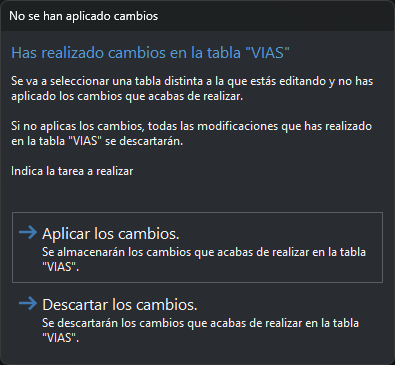
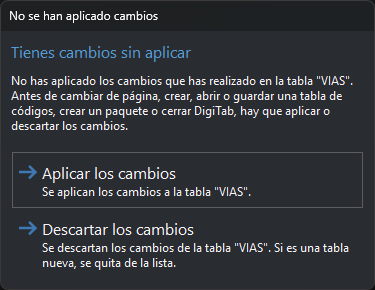
Editor de tablas de codigos: capturas de los avisos de la pestana Base de datos
Capturas nuevas de los cuadros al cambiar de pagina, al seleccionar otra tabla, al pulsar Nueva y de los codigos que enlazan con la tabla.

Changed region(s): [[0.0293, 0.1241, 0.968, 0.5276], [0.0293, 0.5586, 0.968, 0.9621], [0.0, 0.031, 0.44, 0.0931]]

diff --git a/src/digi3d-ai/referencia/editor-de-tablas-de-codigos/pestanas/base-de-datos/README.md b/src/digi3d-ai/referencia/editor-de-tablas-de-codigos/pestanas/base-de-datos/README.md
@@ -1,7 +1,7 @@
 # Base de datos
 <!-- id: base-de-datos-3 -->
 
-![Editor de tablas de códigos mostrando la tabla Edificaciones con sus campos](../../../../../images/pestanabasedatos.png)
+![Editor de tablas de códigos mostrando la tabla VIAS con sus campos](../../../../../images/pestanabasedatos.png)
 
 Esta pestaña configura las tablas de la base de datos y los campos de cada tabla. Cada código puede enlazar con una tabla mediante su propiedad [Tabla](../codigos/base-de-datos.md#tabla).
 
@@ -49,6 +49,8 @@ Aparece al seleccionar otra tabla de la lista y cuando el texto de **Buscar tabl
 * **Descartar los cambios**: descarta los cambios y carga la tabla seleccionada. Si la tabla era nueva, la quita de la lista.
 
 ### Al pulsar Nueva
+
+![Cuadro No se han aplicado cambios al pulsar Nueva](../../../../../images/digitab-cambios-tabla-al-pulsar-nueva.png)
 
 Aparece al pulsar **Nueva**. Además de los dos botones del cuadro anterior, tiene **Cancelar**:
 
